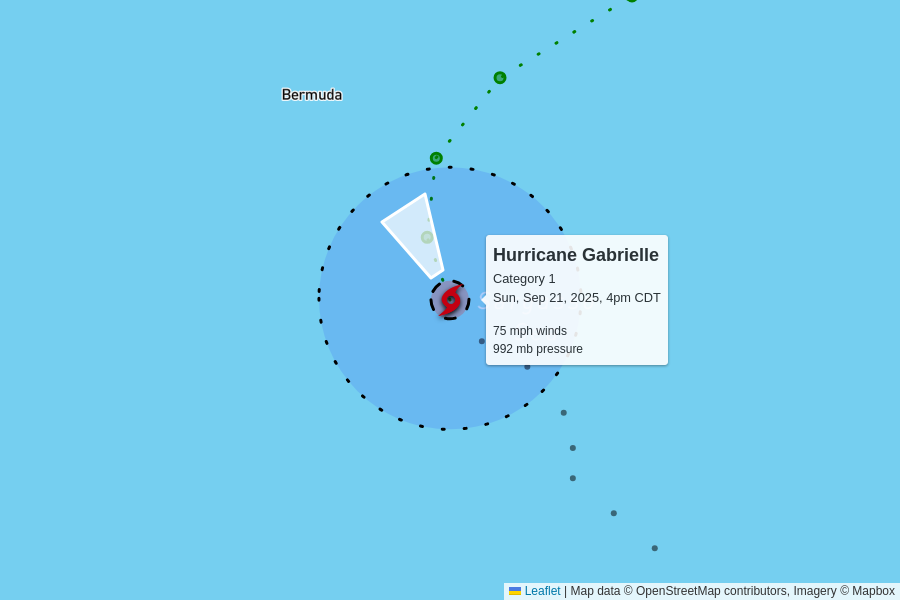
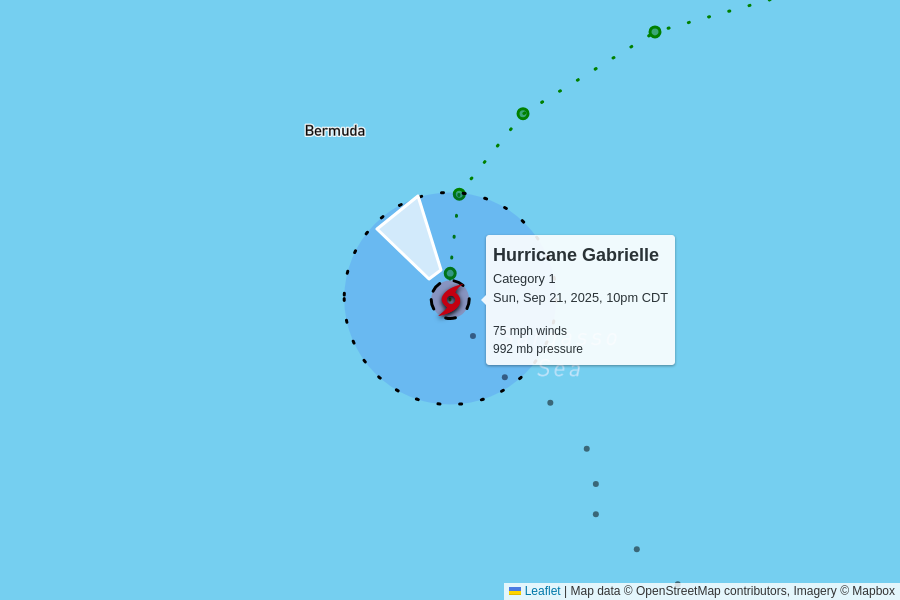
automatic update

diff --git a/docs/index.html b/docs/index.html
@@ -102,7 +102,7 @@
         <td colspan="6" class="storm category-1" >
           <h2>
             Hurricane Gabrielle - Category 1
-            <p class="updated">last updated <span data-time>2025-09-21T21:00:00.000Z</span></p>
+            <p class="updated">last updated <span data-time>2025-09-22T03:00:00.000Z</span></p>
           </h2>
         </td>
       </tr>
@@ -117,12 +117,12 @@
       </tr>
       <tr>
         <td class="spacer"></td>
-        <td>75 mph<br>+10 mph since last update</td>
-        <td>992 mb<br>-3 mb since last update</td>
+        <td>75 mph<br>0 mph since last update</td>
+        <td>992 mb<br>0 mb since last update</td>
         <td>
-          10 mph to the north-northwest
+          12 mph to the northwest
           <br/>
-          <span style="display: inline-block; font-size: 1.5em; transform: rotate(330deg);">↑</span>
+          <span style="display: inline-block; font-size: 1.5em; transform: rotate(325deg);">↑</span>
         </td>
         <td><a href="https://raw.githubusercontent.com/mgwalker/atlantic-hurricanes/main/data/csv/AL072025.csv">AL072025.csv</a></td>
         <td><a href="https://www.nhc.noaa.gov/archive/2025/GABRIELLE.shtml?">NHC advisories</a></td>
